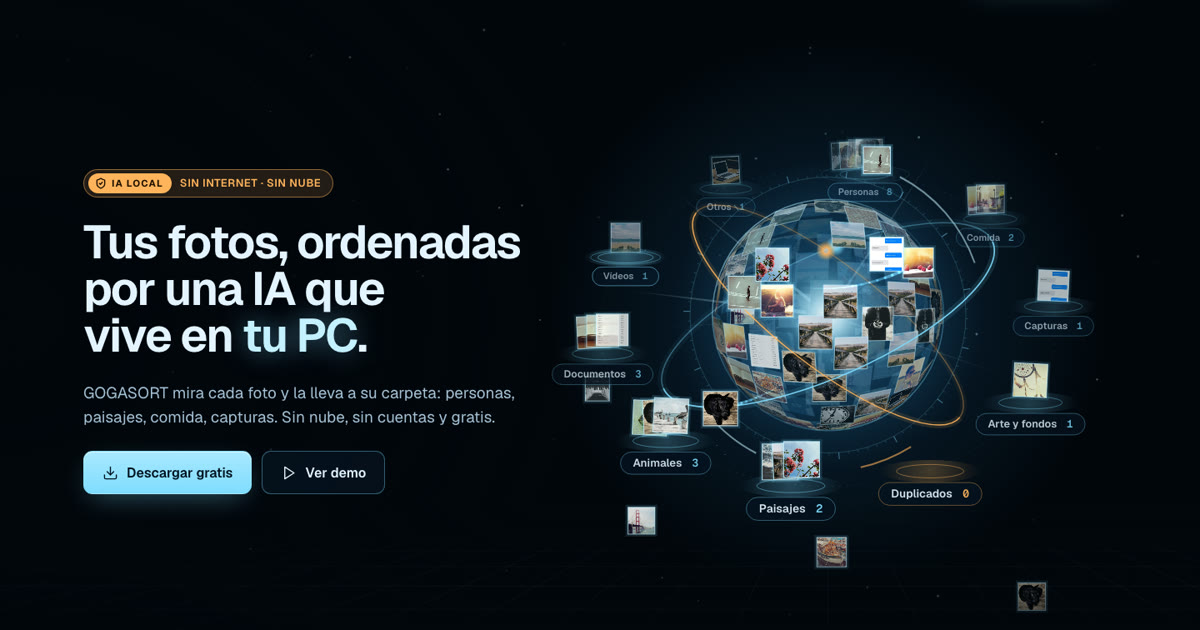
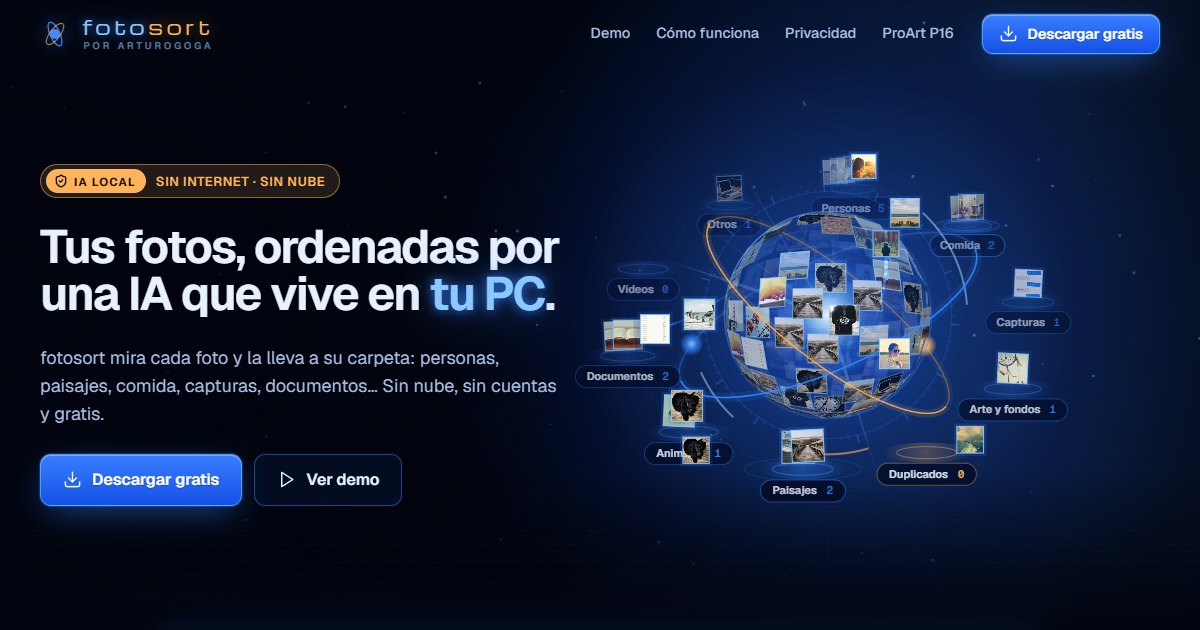
fotosort 1.1.0: nombre nuevo, SigLIP2, cifras y descargas de la release v1.1.0

diff --git a/site/index.html b/site/index.html
@@ -3,14 +3,14 @@
 <head>
   <meta charset="utf-8">
   <meta name="viewport" content="width=device-width, initial-scale=1, viewport-fit=cover">
-  <title>GOGASORT · Ordena tus fotos con IA local</title>
+  <title>fotosort por arturogoga · Ordena tus fotos con IA local</title>
   <meta name="description" content="Ordena miles de fotos y vídeos por temas con IA que corre en tu PC. Gratis, sin nube, y puedes deshacerlo todo.">
   <meta name="theme-color" content="#01040e">
   <link rel="icon" href="/gogasort.ico" sizes="any">
   <link rel="icon" href="/gogasort.png" type="image/png">
   <link rel="canonical" href="https://fotosort.arturogoga.com/">
   <meta property="og:type" content="website">
-  <meta property="og:title" content="GOGASORT · Tus fotos, ordenadas por una IA que vive en tu PC">
+  <meta property="og:title" content="fotosort · Tus fotos, ordenadas por una IA que vive en tu PC">
   <meta property="og:description" content="Ordena miles de fotos y vídeos por temas con IA local. Gratis, sin nube y sin cuentas.">
   <meta property="og:url" content="https://fotosort.arturogoga.com/">
   <meta property="og:image" content="https://fotosort.arturogoga.com/og.jpg">
@@ -26,13 +26,13 @@
 
   <header class="nav" id="nav">
     <div class="wrap">
-      <a class="brand" href="#top" aria-label="GOGASORT, inicio">
+      <a class="brand" href="#top" aria-label="fotosort por arturogoga, inicio">
         <svg class="brand-mark" viewBox="0 0 40 40" width="30" height="30" aria-hidden="true">
           <circle cx="20" cy="20" r="6.5" fill="currentColor"/>
           <ellipse cx="20" cy="20" rx="17" ry="6.5" fill="none" stroke="currentColor" stroke-width="1.6" transform="rotate(-24 20 20)"/>
           <ellipse cx="20" cy="20" rx="17" ry="6.5" fill="none" stroke="#ffb35c" stroke-width="1.2" opacity=".8" transform="rotate(38 20 20)"/>
         </svg>
-        <span class="wordmark">GOGA<b>SORT</b></span>
+        <span class="brand-text"><span class="wordmark">foto<b>sort</b></span><span class="byline">por arturogoga</span></span>
       </a>
       <nav class="nav-links" aria-label="Secciones">
         <a href="#demo">Demo</a>
@@ -52,7 +52,7 @@
         <div class="hero-copy" id="heroCopy">
           <span class="local rv" style="--i:0"><span class="pill"><i data-lucide="shield-check"></i>IA LOCAL</span>SIN INTERNET · SIN NUBE</span>
           <h1 id="h1" class="rv" style="--i:1">Tus fotos, ordenadas por una IA que vive en <em>tu&nbsp;PC</em>.</h1>
-          <p class="lead rv" style="--i:2">GOGASORT mira cada foto y la lleva a su carpeta: personas, paisajes, comida, capturas. Sin nube, sin cuentas y gratis.</p>
+          <p class="lead rv" style="--i:2">fotosort mira cada foto y la lleva a su carpeta: personas, paisajes, comida, capturas, documentos… Sin nube, sin cuentas y gratis.</p>
           <div class="hero-cta rv" style="--i:3">
             <a class="btn btn-primary" href="#descargar"><i data-lucide="download"></i>Descargar gratis</a>
             <a class="btn btn-ghost" href="#demo"><i data-lucide="play"></i>Ver demo</a>
@@ -65,7 +65,7 @@
     <section class="privacy" id="privacidad" aria-labelledby="h-priv">
       <div class="wrap">
         <h2 id="h-priv" class="rv">Ninguna foto sale<br><span class="glowtext">de tu PC.</span></h2>
-        <p class="lead rv" style="--i:1">Las dos IAs corren dentro de tu equipo. GOGASORT no tiene servidor, ni cuenta, ni analítica. Internet se usa una sola vez: para descargar la IA.</p>
+        <p class="lead rv" style="--i:1">Las dos IAs corren dentro de tu equipo. La app no tiene servidor, ni cuenta, ni analítica. Internet se usa una sola vez: para descargar la IA.</p>
 
         <div class="vault rv" style="--i:2" aria-hidden="true">
           <svg viewBox="0 0 980 300" role="img">
@@ -120,17 +120,17 @@
       <div class="wrap">
         <div class="sec-head">
           <h2 id="h-demo" class="rv">Míralo ordenar.</h2>
-          <p class="lead rv" style="--i:1">Las fotos entran a la esfera, la IA las mira y cada una sale disparada a su carpeta. Elige una instrucción y pulsa <b>Ordenar con IA</b>.</p>
+          <p class="lead rv" style="--i:1">Las fotos entran a la esfera, la IA las mira y cada una sale disparada a su carpeta. En la app empieza sola al elegir la carpeta; aquí, elige una instrucción y pulsa <b>Ordenar con IA</b>.</p>
         </div>
 
         <div class="app zap rv" style="--i:2" id="app">
           <div class="app-top">
             <span class="brand" aria-hidden="true">
               <svg class="brand-mark" viewBox="0 0 40 40" width="22" height="22"><circle cx="20" cy="20" r="6.5" fill="currentColor"/><ellipse cx="20" cy="20" rx="17" ry="6.5" fill="none" stroke="currentColor" stroke-width="1.8" transform="rotate(-24 20 20)"/></svg>
-              <span class="wordmark">GOGA<b>SORT</b></span>
+              <span class="wordmark">foto<b>sort</b></span>
             </span>
             <span class="local"><span class="pill"><i data-lucide="shield-check"></i>IA LOCAL</span>SIN INTERNET</span>
-            <span class="engine"><i></i>qwen3.5:4b + CLIP</span>
+            <span class="engine"><i></i>SigLIP2 + Qwen3.5 Vision</span>
             <span class="tele" aria-label="Telemetría simulada"><span class="k">RTX Spark</span><span class="k">Uso</span><b id="tUse">0%</b><span class="k">Ritmo</span><b id="tRate">0/s</b></span>
           </div>
 
@@ -174,7 +174,7 @@
           </div>
           <div id="sheet" hidden></div>
         </div>
-        <p class="demo-note rv">Simulación en tu navegador con fotos de prueba de la app (Unsplash). En GOGASORT, la IA hace esto en tu PC, con tus fotos y con cualquier instrucción.</p>
+        <p class="demo-note rv">Simulación en tu navegador con fotos de prueba de la app (Unsplash). En fotosort, la IA hace esto en tu PC, con tus fotos y con cualquier instrucción.</p>
       </div>
     </section>
 
@@ -193,14 +193,14 @@
             <div class="pair">
               <div>
                 <div class="ic"><i data-lucide="zap"></i></div>
-                <h3>CLIP</h3>
-                <p>Mira cada foto en milisegundos, en el procesador, y resuelve las evidentes.</p>
-                <span class="tag">OpenAI · código abierto</span>
+                <h3>SigLIP2</h3>
+                <p>Mira cada foto en milisegundos (en la GPU si la tienes), las coloca todas en su carpeta probable y decide sola las evidentes.</p>
+                <span class="tag">Google · código abierto</span>
               </div>
               <div class="qw">
                 <div class="ic"><i data-lucide="eye"></i></div>
                 <h3>Qwen3.5 Vision</h3>
-                <p>Decide las dudosas, describe lo que ve y entiende tus instrucciones.</p>
+                <p>Revisa las dudosas, describe lo que ve y entiende tus instrucciones.</p>
                 <span class="tag">Alibaba · código abierto, vía Ollama</span>
               </div>
             </div>
@@ -227,16 +227,16 @@
             <img src="/img/rtx-spark-chip.webp" alt="" loading="lazy">
             <span class="when">GPU NVIDIA o AMD con 6 GB o más, o RTX Spark</span>
             <h3>Completo</h3>
-            <p>CLIP separa lo evidente y Qwen3.5 Vision decide lo dudoso y describe cada foto.</p>
+            <p>SigLIP2 separa lo evidente y Qwen3.5 Vision decide lo dudoso y describe las fotos. Si tienes un Qwen3.5 más grande y cabe en tu GPU, lo usa solo.</p>
           </article>
           <article class="cell fast spot rv" style="--i:1">
             <span class="when">Sin GPU dedicada</span>
             <h3>Rápido</h3>
-            <p>CLIP ordena todo en el procesador y Qwen3.5 describe algunas fotos de muestra.</p>
+            <p>SigLIP2 ordena todo en el procesador y Qwen3.5 describe algunas fotos de muestra.</p>
           </article>
           <article class="cell clip spot rv" style="--i:2">
             <span class="when">Si omites la descarga de Qwen3.5</span>
-            <h3>Solo CLIP</h3>
+            <h3>Solo SigLIP2</h3>
             <p>Ordena igual con las carpetas por defecto, sin descripciones ni instrucciones a medida.</p>
           </article>
         </div>
@@ -248,7 +248,7 @@
       <div class="wrap safe-grid">
         <div class="sticky">
           <h2 id="h-safe" class="rv">Tus archivos están a salvo.</h2>
-          <p class="lead rv" style="--i:1">GOGASORT propone. Tú decides.</p>
+          <p class="lead rv" style="--i:1">fotosort propone. Tú decides.</p>
         </div>
         <div class="rules">
           <div class="rule rv"><div class="ic"><i data-lucide="hand"></i></div><div><h3>Nada se mueve sin tu permiso</h3><p>Primero propone. Los archivos solo se mueven cuando pulsas «Mover fotos» y lo confirmas.</p></div></div>
@@ -269,10 +269,10 @@
               <img class="rtx" src="/img/rtxspark-badge.webp" alt="NVIDIA RTX Spark" width="118" height="42">
             </div>
             <h2 id="h-proart">Donde mejor corre: ASUS ProArt P16 con NVIDIA RTX Spark.</h2>
-            <p class="lead">La edición ARM64 de GOGASORT está hecha para RTX Spark: modo Completo, con CLIP y Qwen3.5 Vision trabajando dentro del equipo.</p>
+            <p class="lead">La edición ARM64 de fotosort está hecha para RTX Spark: SigLIP2 corre en su GPU (unos 12 ms por foto) y, si lo instalas, cabe en su memoria el Qwen3.5 grande (35B-A3B), el más preciso: fotosort lo detecta y lo usa solo.</p>
             <div class="metrics">
-              <div class="metric"><b>72,8 s</b><span>para ordenar unas 500 fotos, medido con RTX Spark</span></div>
-              <div class="metric"><b>Completo</b><span>el modo con las dos IAs a la vez</span></div>
+              <div class="metric"><b>20 s</b><span>para colocar unas 500 fotos en su carpeta</span></div>
+              <div class="metric"><b>99 %</b><span>en una carpeta correcta con Qwen3.5 35B-A3B, en 302 fotos revisadas a mano</span></div>
             </div>
             <a class="btn btn-primary" id="proartBtn" href="/proart/web"><i data-lucide="arrow-up-right"></i>Conoce la ProArt P16</a>
             <span class="small">Te lleva a la página oficial de ASUS Perú.</span>
@@ -295,34 +295,34 @@
           <article class="dl-card zap spot rv" id="dl-x64" style="--i:0">
             <span class="dl-arch">Windows x64</span>
             <p class="dl-who">PCs con Intel o AMD. La mayoría.</p>
-            <div class="dl-meta"><span class="chip">ZIP · 281 MB</span><span class="chip">IA la primera vez · unos 5 GB</span></div>
+            <div class="dl-meta"><span class="chip">ZIP · 281 MB</span><span class="chip">IA la primera vez · unos 5,7 GB</span></div>
             <a class="btn btn-primary" href="/descargar/x64"><i data-lucide="download"></i>Descargar x64</a>
[2 lines of base64/hex data omitted]
           </article>
           <article class="dl-card zap spot rv" id="dl-arm64" style="--i:1">
             <span class="dl-arch">Windows ARM64</span>
             <p class="dl-who">PCs con Snapdragon (Copilot+ PC) o NVIDIA RTX Spark.</p>
-            <div class="dl-meta"><span class="chip">ZIP · 255 MB</span><span class="chip">IA la primera vez · unos 3,6 GB</span></div>
+            <div class="dl-meta"><span class="chip">ZIP · 255 MB</span><span class="chip">IA la primera vez · unos 4,3 GB</span></div>
             <a class="btn btn-primary" href="/descargar/arm64"><i data-lucide="download"></i>Descargar ARM64</a>
[2 lines of base64/hex data omitted]
           </article>
         </div>
         <div class="which rv">
           <i data-lucide="circle-help"></i>
-          <p><b>¿Cuál es el mío?</b> <span id="archHint"></span> En Windows: Inicio &gt; Configuración &gt; Sistema &gt; Información &gt; «Tipo de sistema». Si dice «procesador basado en x64», baja x64; si dice «basado en ARM», baja ARM64. Si ya tienes Ollama, GOGASORT usa el tuyo y solo baja el modelo (3,4 GB).</p>
+          <p><b>¿Cuál es el mío?</b> <span id="archHint"></span> En Windows: Inicio &gt; Configuración &gt; Sistema &gt; Información &gt; «Tipo de sistema». Si dice «procesador basado en x64», baja x64; si dice «basado en ARM», baja ARM64. Si ya tienes Ollama, fotosort usa el tuyo y solo baja los modelos: SigLIP2 (690 MB) y Qwen3.5 4B (3,4 GB).</p>
         </div>
 
         <div class="steps">
           <div class="step rv" style="--i:0"><h3>Descarga</h3><p>Baja el ZIP de tu PC.</p></div>
-          <div class="step rv" style="--i:1"><h3>Descomprime</h3><p>Clic derecho &gt; «Extraer todo…», por ejemplo en <code>Documentos\GOGASORT</code>. No lo abras desde dentro del ZIP.</p></div>
-          <div class="step rv" style="--i:2"><h3>Abre <code>GOGASORT.cmd</code></h3><p>Si Windows dice «Windows protegió tu PC», pulsa «Más información» &gt; «Ejecutar de todas formas». Pasa con los programas sin firma digital.</p></div>
-          <div class="step rv" style="--i:3"><h3>Ordena</h3><p>La primera vez prepara la IA sola. Luego pulsa «Ver demo» o «Elegir carpeta».</p></div>
+          <div class="step rv" style="--i:1"><h3>Descomprime</h3><p>Clic derecho &gt; «Extraer todo…», por ejemplo en <code>Documentos\fotosort</code>. No lo abras desde dentro del ZIP.</p></div>
+          <div class="step rv" style="--i:2"><h3>Abre <code>fotosort.cmd</code></h3><p>Si Windows dice «Windows protegió tu PC», pulsa «Más información» &gt; «Ejecutar de todas formas». Pasa con los programas sin firma digital.</p></div>
+          <div class="step rv" style="--i:3"><h3>Ordena</h3><p>La primera vez descarga y prepara la IA sola. Luego pulsa «Ver demo» o «Elegir carpeta»: empieza a ordenar en cuanto la eliges.</p></div>
         </div>
 
         <div class="need rv" aria-label="Requisitos">
           <span class="chip"><i data-lucide="monitor"></i>Windows 10 u 11 de 64 bits</span>
           <span class="chip"><i data-lucide="memory-stick"></i>8 GB de RAM, 16 GB recomendados</span>
-          <span class="chip"><i data-lucide="hard-drive"></i>8 GB libres en x64, 5 GB en ARM64</span>
+          <span class="chip"><i data-lucide="hard-drive"></i>9 GB libres en x64, 6 GB en ARM64</span>
           <span class="chip"><i data-lucide="wifi"></i>Internet solo la primera vez</span>
           <span class="chip"><i data-lucide="cpu"></i>Recomendado: GPU de 6 GB o RTX Spark</span>
         </div>
@@ -335,7 +335,7 @@
         <h2 id="h-faq" class="rv">Preguntas frecuentes</h2>
         <div class="qa rv" style="--i:1">
           <details><summary>¿Es gratis?<i data-lucide="plus"></i></summary><p>Sí.</p></details>
-          <details><summary>¿Sube mis fotos a algún sitio?<i data-lucide="plus"></i></summary><p>No. Todo corre en tu PC. Internet solo se usa la primera vez, para descargar Ollama y el modelo de IA.</p></details>
+          <details><summary>¿Sube mis fotos a algún sitio?<i data-lucide="plus"></i></summary><p>No. Todo corre en tu PC. Internet solo se usa la primera vez, para descargar Ollama y los modelos de IA (SigLIP2 y Qwen3.5). Esta web, aparte, cuenta visitas de forma anónima con Vercel Web Analytics; la app no.</p></details>
           <details><summary>¿Funciona sin internet?<i data-lucide="plus"></i></summary><p>Sí, después de la primera vez.</p></details>
           <details><summary>¿Necesito una tarjeta gráfica?<i data-lucide="plus"></i></summary><p>No. Con una GPU NVIDIA o AMD (o RTX Spark) usa el modo Completo; sin ella ordena en modo Rápido con el procesador.</p></details>
           <details><summary>¿Puede borrar mis fotos?<i data-lucide="plus"></i></summary><p>No borra nada: solo mueve archivos cuando lo confirmas, y todo se puede deshacer.</p></details>
@@ -351,14 +351,14 @@
   <footer class="foot">
     <div class="wrap foot-grid">
       <div>
-        <a class="brand" href="#top" aria-label="GOGASORT, inicio">
+        <a class="brand" href="#top" aria-label="fotosort por arturogoga, inicio">
           <svg class="brand-mark" viewBox="0 0 40 40" width="26" height="26" aria-hidden="true"><circle cx="20" cy="20" r="6.5" fill="currentColor"/><ellipse cx="20" cy="20" rx="17" ry="6.5" fill="none" stroke="currentColor" stroke-width="1.6" transform="rotate(-24 20 20)"/></svg>
-          <span class="wordmark">GOGA<b>SORT</b></span>
+          <span class="brand-text"><span class="wordmark">foto<b>sort</b></span><span class="byline">por arturogoga</span></span>
         </a>
         <p>Hecho por <a href="https://arturogoga.com" rel="noopener">@arturogoga</a>.</p>
       </div>
       <div>
-        <p>GOGASORT usa software libre: Python, FastAPI, Uvicorn, Pillow, NumPy, ONNX Runtime, CLIP ViT-B/32 (OpenAI, licencia MIT), Qwen3.5 (Alibaba, Apache 2.0), Ollama (MIT) y FFmpeg (LGPL). Las licencias completas van en <span class="mono">THIRD-PARTY-NOTICES.txt</span>, dentro de cada ZIP.</p>
+        <p>fotosort usa software libre: Python, FastAPI, Uvicorn, Pillow, NumPy, ONNX Runtime, SigLIP 2 (Google, Apache 2.0), CLIP ViT-B/32 (OpenAI, licencia MIT), Qwen3.5 (Alibaba, Apache 2.0), Ollama (MIT) y FFmpeg (LGPL). Las licencias completas van en <span class="mono">THIRD-PARTY-NOTICES.txt</span>, dentro de cada ZIP.</p>
         <p>Fotos de la demo: fotógrafos de Unsplash, vía Lorem Picsum (licencia Unsplash). Imágenes y logos de ASUS ProArt y NVIDIA RTX Spark: guía de prensa de ASUS; son marcas de sus dueños. Huellas en <a href="/SHA256SUMS.txt">SHA256SUMS.txt</a>.</p>
       </div>
     </div>

diff --git a/site/js/main.js b/site/js/main.js
@@ -108,8 +108,8 @@
         typing = setInterval(function () { i++; cap.textContent = s.slice(0, i); if (i >= s.length) clearInterval(typing); }, 26);
       }
     } else {
-      chips += '<span class="chip"><i data-lucide="zap"></i>CLIP · ' + Math.round(f.d.p * 100) + " %</span>";
-      cap.textContent = target === "Duplicados" ? "Copia exacta de otra foto." : target === "Vídeos" ? "Es un vídeo: va aparte." : "Evidente. CLIP la resolvió en milisegundos.";
+      chips += '<span class="chip"><i data-lucide="zap"></i>SigLIP2 · ' + Math.round(f.d.p * 100) + " %</span>";
+      cap.textContent = target === "Duplicados" ? "Copia exacta de otra foto." : target === "Vídeos" ? "Es un vídeo: va aparte." : "Evidente. SigLIP2 la resolvió en milisegundos.";
     }
     verdict.innerHTML = chips;
     if (window.lucide) lucide.createIcons({ nameAttr: "data-lucide", root: verdict });
@@ -168,7 +168,7 @@
     var opts = demoE.cats.map(function (k) { return k.name; });
     var html = '<div class="sheet-head"><i data-lucide="folder-open" class="hi"></i><h3>' + c.name + ' <span class="mono hi">' + items.length + '</span></h3><button class="x" type="button" aria-label="Cerrar"><i data-lucide="x"></i></button></div><div class="gal">';
     items.forEach(function (f) {
-      var label = f.d.e === "qwen" ? f.d.c : "CLIP · " + Math.round(f.d.p * 100) + " %";
+      var label = f.d.e === "qwen" ? f.d.c : "SigLIP2 · " + Math.round(f.d.p * 100) + " %";
       html += '<figure><img alt="" src="' + BASE + f.d.id + '.webp"><figcaption>' + label + '</figcaption><label class="sr-only" for="mv-' + f.i + '">Mover a</label><select id="mv-' + f.i + '" data-i="' + f.i + '">' +
         opts.map(function (o) { return '<option' + (o === c.name ? " selected" : "") + ">" + o + "</option>"; }).join("") + "</select></figure>";
     });
@@ -243,7 +243,7 @@
   }
   var ua = navigator.userAgent;
   if (!/Windows/i.test(ua)) {
-    hint.textContent = "GOGASORT es para Windows: descárgalo desde tu PC.";
+    hint.textContent = "fotosort es para Windows: descárgalo desde tu PC.";
   } else if (navigator.userAgentData && navigator.userAgentData.getHighEntropyValues) {
     navigator.userAgentData.getHighEntropyValues(["architecture", "bitness"]).then(function (v) {
       if (v.architecture === "arm") recommend("arm64");

diff --git a/site/descargar/arm64/index.html b/site/descargar/arm64/index.html
@@ -3,10 +3,10 @@
 <head>
   <meta charset="utf-8">
   <meta name="viewport" content="width=device-width, initial-scale=1">
-  <title>Descargando GOGASORT ARM64</title>
+  <title>Descargando fotosort ARM64</title>
   <meta name="robots" content="noindex">
   <meta name="theme-color" content="#02060c">
-  <meta http-equiv="refresh" content="4;url=https://github.com/argokaz/gogasort/releases/download/v1.0.0/GOGASORT-1.0.0-Windows-ARM64.zip">
+  <meta http-equiv="refresh" content="4;url=https://github.com/argokaz/gogasort/releases/download/v1.1.0/fotosort-1.1.0-Windows-ARM64.zip">
   <link rel="icon" href="/gogasort.ico" sizes="any">
   <style>
     @font-face { font-family: "Geist"; src: url("/fonts/geist.woff2") format("woff2"); font-weight: 100 900; font-display: swap; }
@@ -29,12 +29,12 @@
 <body>
   <main>
     <div class="orb" aria-hidden="true"><b></b><b></b><i></i></div>
-    <h1>Descargando GOGASORT para Windows ARM64…</h1>
-    <p>Si no pasa nada, <a id="go" href="https://github.com/argokaz/gogasort/releases/download/v1.0.0/GOGASORT-1.0.0-Windows-ARM64.zip" rel="noopener">toca aquí</a>.</p>
+    <h1>Descargando fotosort para Windows ARM64…</h1>
+    <p>Si no pasa nada, <a id="go" href="https://github.com/argokaz/gogasort/releases/download/v1.1.0/fotosort-1.1.0-Windows-ARM64.zip" rel="noopener">toca aquí</a>.</p>
   </main>
   <script>
     (function () {
-      var dest = "https://github.com/argokaz/gogasort/releases/download/v1.0.0/GOGASORT-1.0.0-Windows-ARM64.zip", gone = false;
+      var dest = "https://github.com/argokaz/gogasort/releases/download/v1.1.0/fotosort-1.1.0-Windows-ARM64.zip", gone = false;
       function go() { if (gone) return; gone = true; location.replace(dest); }
       /* deja tiempo a que la analítica registre la visita y luego salta */
       window.addEventListener("load", function () { setTimeout(go, 750); });

diff --git a/site/descargar/x64/index.html b/site/descargar/x64/index.html
@@ -3,10 +3,10 @@
 <head>
   <meta charset="utf-8">
   <meta name="viewport" content="width=device-width, initial-scale=1">
-  <title>Descargando GOGASORT x64</title>
+  <title>Descargando fotosort x64</title>
   <meta name="robots" content="noindex">
   <meta name="theme-color" content="#02060c">
-  <meta http-equiv="refresh" content="4;url=https://github.com/argokaz/gogasort/releases/download/v1.0.0/GOGASORT-1.0.0-Windows-x64.zip">
+  <meta http-equiv="refresh" content="4;url=https://github.com/argokaz/gogasort/releases/download/v1.1.0/fotosort-1.1.0-Windows-x64.zip">
   <link rel="icon" href="/gogasort.ico" sizes="any">
   <style>
     @font-face { font-family: "Geist"; src: url("/fonts/geist.woff2") format("woff2"); font-weight: 100 900; font-display: swap; }
@@ -29,12 +29,12 @@
 <body>
   <main>
     <div class="orb" aria-hidden="true"><b></b><b></b><i></i></div>
-    <h1>Descargando GOGASORT para Windows x64…</h1>
-    <p>Si no pasa nada, <a id="go" href="https://github.com/argokaz/gogasort/releases/download/v1.0.0/GOGASORT-1.0.0-Windows-x64.zip" rel="noopener">toca aquí</a>.</p>
+    <h1>Descargando fotosort para Windows x64…</h1>
+    <p>Si no pasa nada, <a id="go" href="https://github.com/argokaz/gogasort/releases/download/v1.1.0/fotosort-1.1.0-Windows-x64.zip" rel="noopener">toca aquí</a>.</p>
   </main>
   <script>
     (function () {
-      var dest = "https://github.com/argokaz/gogasort/releases/download/v1.0.0/GOGASORT-1.0.0-Windows-x64.zip", gone = false;
+      var dest = "https://github.com/argokaz/gogasort/releases/download/v1.1.0/fotosort-1.1.0-Windows-x64.zip", gone = false;
       function go() { if (gone) return; gone = true; location.replace(dest); }
       /* deja tiempo a que la analítica registre la visita y luego salta */
       window.addEventListener("load", function () { setTimeout(go, 750); });

diff --git a/site/css/styles.css b/site/css/styles.css
@@ -1,4 +1,4 @@
-/* FotoSort / GOGASORT · web
+/* fotosort por arturogoga · web
    Mundo: el de la app. Sala de control holográfica: hielo cian sobre azul noche,
    ámbar solo para lo que importa (IA local, sin internet, duplicados).
    Radios: paneles 16px, botones 11px, insignias y chips 999px (igual que la app).
@@ -463,3 +463,8 @@ main > section:not(.hero)::before {
   .zap::after, .hero h1 em { animation: none !important; }
   .zap::after { background: none; }
 }
+
+/* firma bajo el logotipo, como en la app: «fotosort» y debajo «POR ARTUROGOGA» */
+.brand-text { display: inline-flex; flex-direction: column; gap: 5px; }
+.byline { font: 500 9.5px/1 var(--font); letter-spacing: 0.32em; text-transform: uppercase; color: var(--accent-2); opacity: 0.62; padding-left: 0.15em; white-space: nowrap; }
+@media (max-width: 520px) { .nav .byline { font-size: 8px; letter-spacing: 0.22em; } }

diff --git a/site/js/fotos.js b/site/js/fotos.js
@@ -1,4 +1,4 @@
-// Generado por tools/fotos_demo.py. Fotos de prueba de GOGASORT (Unsplash).
+// Generado por tools/fotos_demo.py. Fotos de prueba de fotosort (Unsplash).
 window.FOTOS = [
 {
 "id": "paris",

diff --git a/README.md b/README.md
@@ -1,7 +1,7 @@
-# GOGASORT · web (fotosort.arturogoga.com)
+# fotosort por arturogoga · web (fotosort.arturogoga.com)
 
-Web de descargas y demo de GOGASORT: ordena fotos y vídeos con IA que corre en tu PC
-(CLIP + Qwen3.5 Vision vía Ollama). Sin nube, sin cuentas, gratis.
+Web de descargas y demo de fotosort (antes GOGASORT): ordena fotos y vídeos con IA que corre en tu PC
+(SigLIP2 + Qwen3.5 Vision vía Ollama). Sin nube, sin cuentas, gratis.
 
 - `site/` · la web estática (HTML/CSS/JS, sin build). `js/esfera.js` es el globo de fotos.
 - `site/proart` · enlace de seguimiento a la ASUS ProArt P16 (cuenta la visita en Vercel Web Analytics y salta a https://pe.asus.click/v3t6du).
